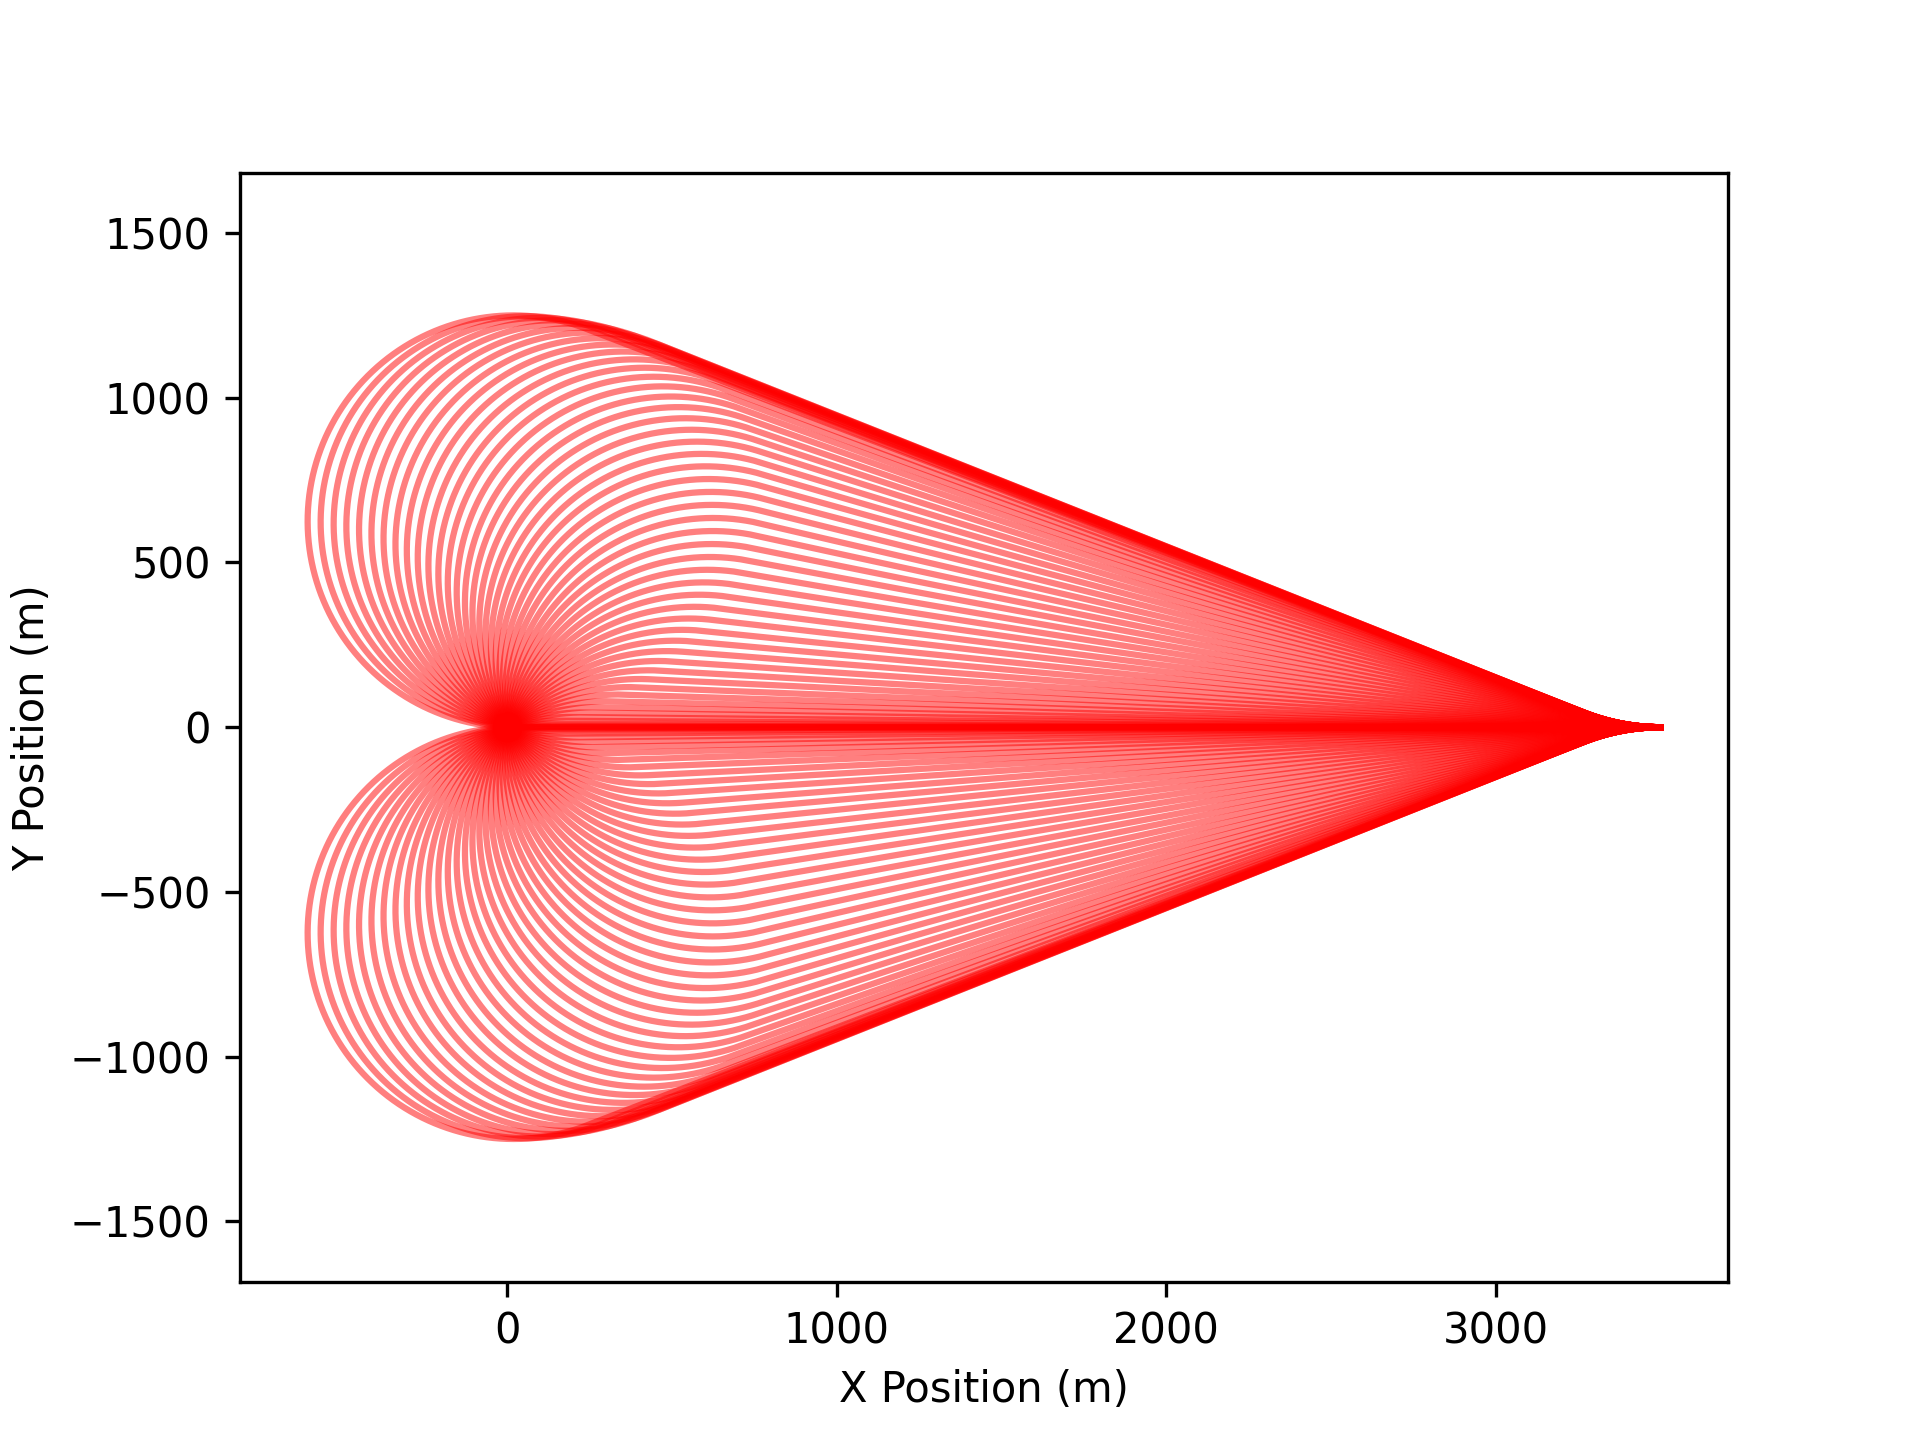
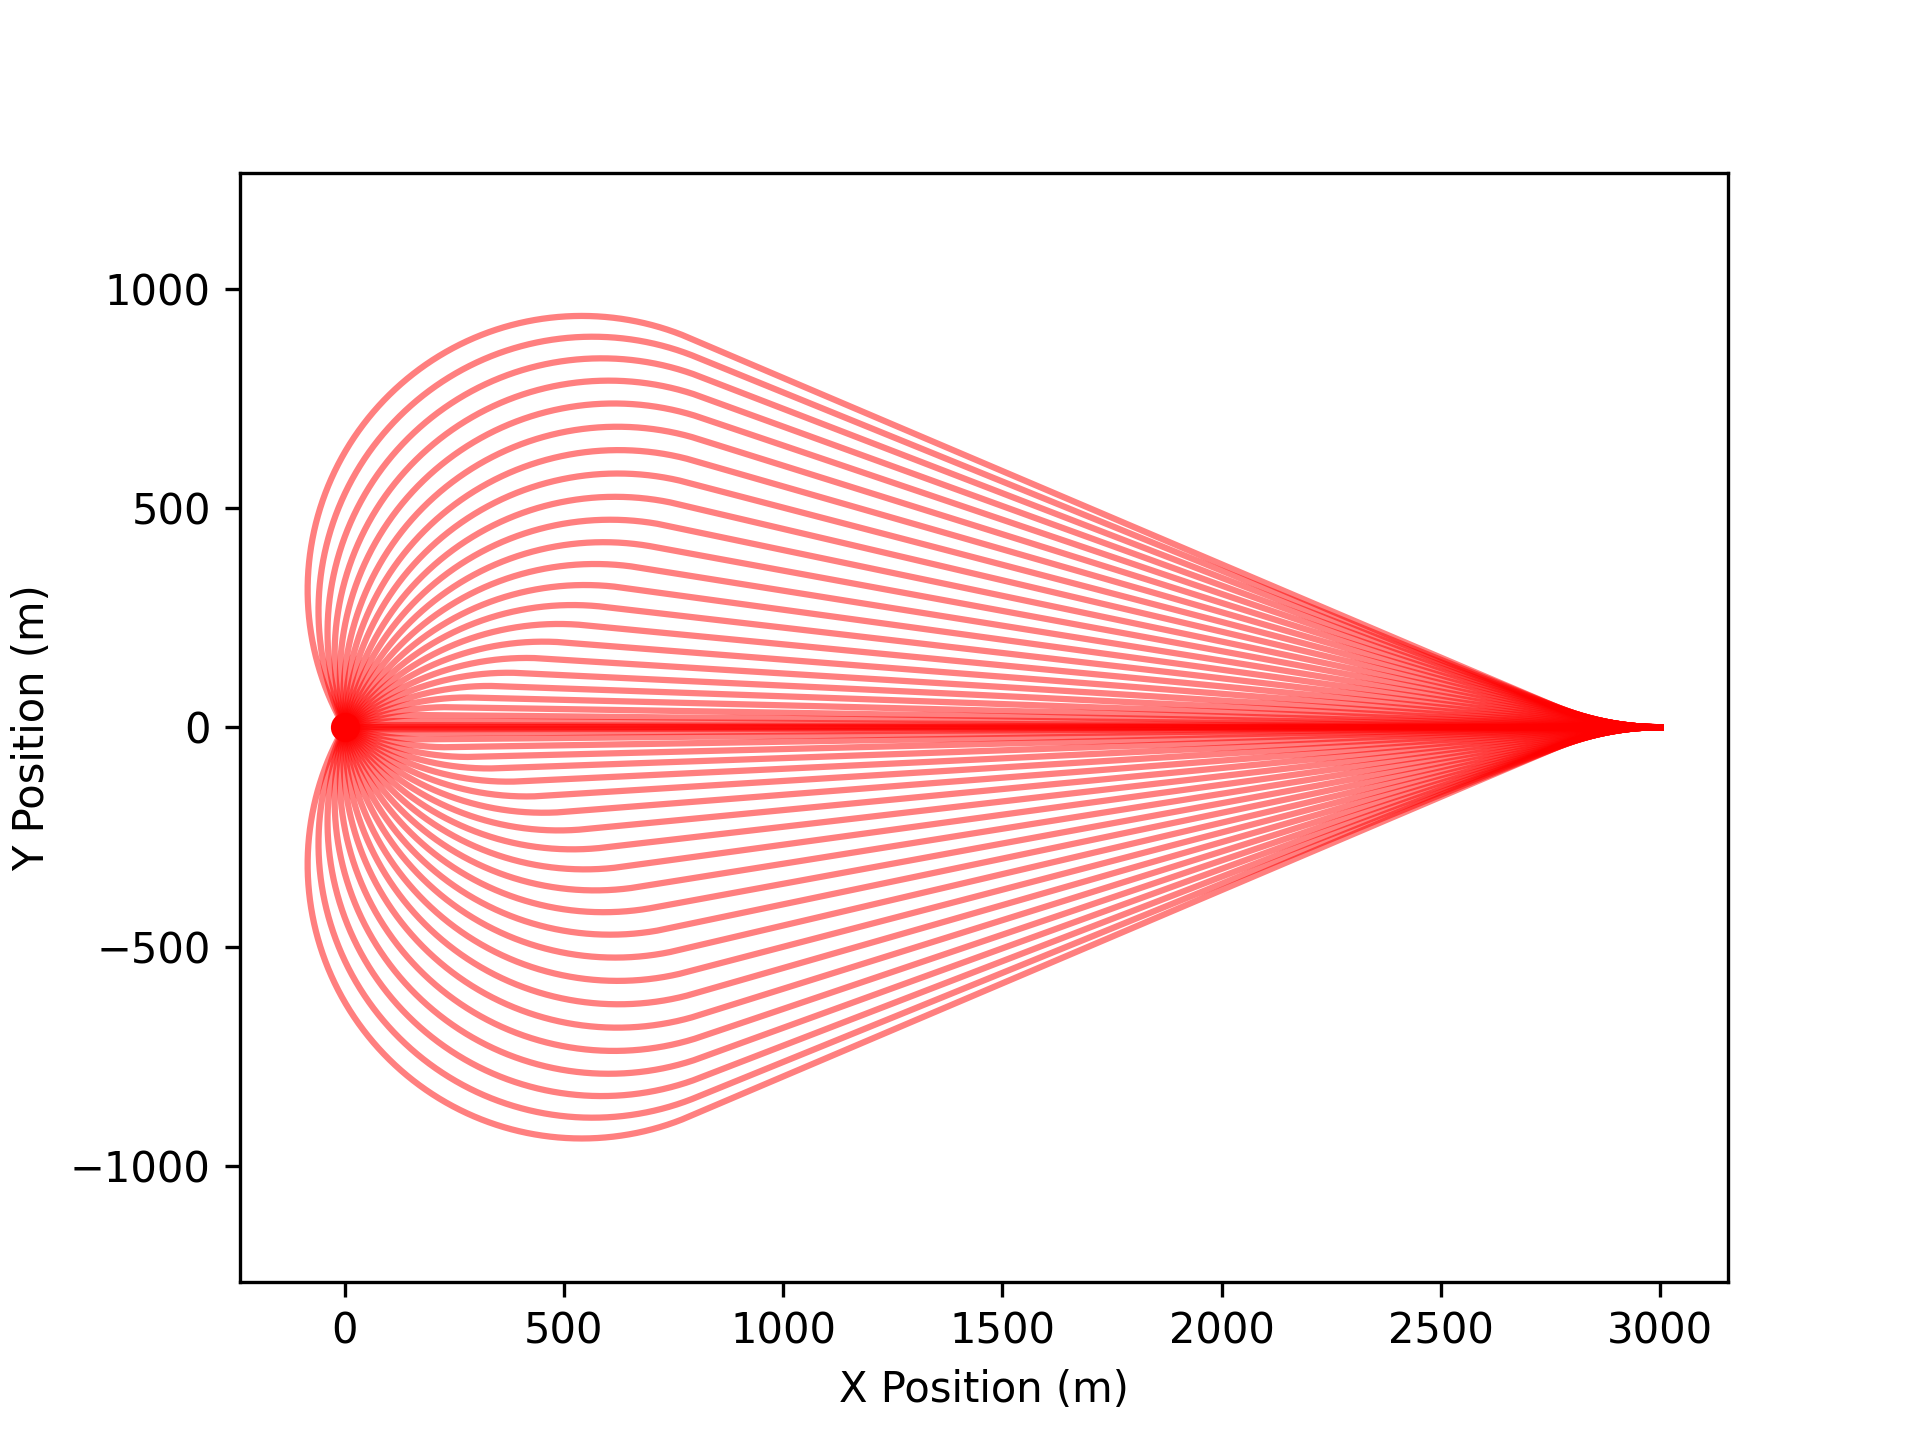
added dubins function

diff --git a/path_follower.py b/path_follower.py
@@ -45,22 +45,38 @@ def get_dubins_parameters(p_s: NDArray[np.float64], chi_s: float, p_e: NDArray[n
 
     # compute L1, L2, L3, L4 distances
     theta = np.arctan2(c_re[1] - c_rs[1], c_re[0] - c_rs[0])
-    L1 = np.linalg.norm(c_rs - c_re) + R*mod(2*np.pi + mod(theta - np.pi/2) - mod(chi_s - np.pi/2)) + R*mod(2*np.pi + mod(chi_e-np.pi/2) - mod(theta - np.pi/2))
+    first_arc_L1 = mod(2*np.pi + mod(theta - np.pi/2) - mod(chi_s - np.pi/2))
+    second_arc_L1 = mod(2*np.pi + mod(chi_e - np.pi/2) - mod(theta - np.pi/2))
+    straight_L1 = np.linalg.norm(c_rs - c_re)
+    L1 = straight_L1 + R*first_arc_L1 + R*second_arc_L1
+    L1_dict = {"first_arc": first_arc_L1, "straight": straight_L1, "second_arc": second_arc_L1}
 
     diff = c_le - c_rs
     ell = np.linalg.norm(diff)
     theta = np.arctan2(diff[1], diff[0])
     ell = np.linalg.norm(c_le - c_rs)
     theta2 = theta - np.pi/2 + np.arcsin(2*R/ell)
-    L2 = np.sqrt(ell**2 - 4*R**2) + R*mod(2*np.pi + mod(theta2) - mod(chi_s - np.pi/2)) + R*mod(2*np.pi + mod(theta2 + np.pi) - mod(chi_e + np.pi/2))
+    first_arc_L2 = mod(2*np.pi + mod(theta2) - mod(chi_s - np.pi/2))
+    second_arc_L2 = mod(2*np.pi + mod(theta2 + np.pi) - mod(chi_e + np.pi/2))
+    straight_L2 = np.sqrt(ell**2 - 4*R**2)
+    L2 = straight_L2 + R*first_arc_L2 + R*second_arc_L2
+    L2_dict = {"first_arc": first_arc_L2, "straight": straight_L2, "second_arc": second_arc_L2}
 
     theta = np.arctan2(c_re[1] - c_ls[1], c_re[0] - c_ls[0])
     ell = np.linalg.norm(c_re - c_ls)
     theta2 = np.arccos(2*R/ell)
-    L3 = np.sqrt(ell**2 - 4*R**2) + R*mod(2*np.pi + mod(chi_s + np.pi/2) - mod(theta + theta2)) + R*mod(2*np.pi + mod(chi_e - np.pi/2) - mod(theta + theta2 - np.pi))
+    first_arc_L3 = mod(2*np.pi + mod(chi_s + np.pi/2) - mod(theta + theta2))
+    second_arc_L3 = mod(2*np.pi + mod(chi_e - np.pi/2) - mod(theta + theta2 - np.pi))
+    straight_L3 = np.sqrt(ell**2 - 4*R**2)
+    L3 = straight_L3 + R*first_arc_L3 + R*second_arc_L3
+    L3_dict = {"first_arc": first_arc_L3, "straight": straight_L3, "second_arc": second_arc_L3}
 
     theta = np.arctan2(c_le[1] - c_ls[1], c_le[0] - c_ls[0])
-    L4 = np.linalg.norm(c_ls - c_le) + R*mod(2*np.pi + mod(chi_s + np.pi/2) - mod(theta + np.pi/2)) + R*mod(2*np.pi + mod(theta + np.pi/2) - mod(chi_e + np.pi/2))
+    first_arc_L4 = mod(2*np.pi + mod(chi_s + np.pi/2) - mod(theta + np.pi/2))
+    second_arc_L4 = mod(2*np.pi + mod(theta + np.pi/2) - mod(chi_e + np.pi/2))
+    straight_L4 = np.linalg.norm(c_ls - c_le)
+    L4 = straight_L4 + R*first_arc_L4 + R*second_arc_L4
+    L4_dict = {"first_arc": first_arc_L4, "straight": straight_L4, "second_arc": second_arc_L4}
 
     # Determine the minimum length path
     lengths = [L1, L2, L3, L4]
@@ -73,6 +89,9 @@ def get_dubins_parameters(p_s: NDArray[np.float64], chi_s: float, p_e: NDArray[n
         q1 = (c_e - c_s) / np.linalg.norm(c_e - c_s)
         z1 = c_s + R * rotation_matrix(-np.pi/2) @ q1
         z2 = c_e + R * rotation_matrix(-np.pi/2) @ q1
+        first_arc = L1_dict["first_arc"]
+        second_arc = L1_dict["second_arc"]
+        straight = L1_dict["straight"]
         
     elif min_index == 1:
         c_s = c_rs
@@ -85,6 +104,10 @@ def get_dubins_parameters(p_s: NDArray[np.float64], chi_s: float, p_e: NDArray[n
         q1 = rotation_matrix(theta2 + np.pi/2) @ np.array([1, 0])
         z1 = c_s + R * rotation_matrix(theta2) @ np.array([1, 0])
         z2 = c_e + R * rotation_matrix(theta2 + np.pi) @ np.array([1, 0])
+        first_arc = L2_dict["first_arc"]
+        second_arc = L2_dict["second_arc"]
+        straight = L2_dict["straight"]
+
     elif min_index == 2:
         c_s = c_ls
         c_e = c_re
@@ -96,6 +119,9 @@ def get_dubins_parameters(p_s: NDArray[np.float64], chi_s: float, p_e: NDArray[n
         q1 = rotation_matrix(theta + theta2 - np.pi/2) @ np.array([1, 0])
         z1 = c_s + R * rotation_matrix(theta + theta2) @ np.array([1, 0])
         z2 = c_e + R * rotation_matrix(theta + theta2 - np.pi) @ np.array([1, 0])
+        first_arc = L3_dict["first_arc"]
+        second_arc = L3_dict["second_arc"]
+        straight = L3_dict["straight"]
     else:
         c_s = c_ls
         c_e = c_le
@@ -104,11 +130,14 @@ def get_dubins_parameters(p_s: NDArray[np.float64], chi_s: float, p_e: NDArray[n
         q1 = (c_e - c_s) / np.linalg.norm(c_e - c_s)    
         z1 = c_s + R * rotation_matrix(np.pi/2) @ q1
         z2 = c_e + R * rotation_matrix(np.pi/2) @ q1
+        first_arc = L4_dict["first_arc"]
+        second_arc = L4_dict["second_arc"]
+        straight = L4_dict["straight"]
 
     z3 = p_e
     q3 = rotation_matrix(chi_e) @ np.array([1, 0])
 
-    return c_s, c_e, lambda_s, lambda_e, z1, z2, z3, q1, q3
+    return c_s, c_e, lambda_s, lambda_e, z1, z2, z3, q1, q3, first_arc, second_arc, straight
 
 
 def mod(x: float) -> float:

diff --git a/path_manager.py b/path_manager.py
@@ -1,7 +1,7 @@
 import numpy as np
 from numpy.typing import NDArray
 import params as P
-from path_follower import get_dubins_parameters
+from path_follower import get_dubins_parameters, rotation_matrix
 from dynamics import SimpleDynamics
 
 
@@ -195,3 +195,34 @@ def in_half_plane(
 
 def wrap_angle(angle: float) -> float:
     return (angle + np.pi) % (2 * np.pi) - np.pi
+
+
+def dubins_state_at_time(x0, xtf, t, v):
+    R = v**2/P.max_acceleration
+    c_s, c_e, lambda_s, lambda_e, z1, z2, z3, q1, q3, first_arc, second_arc, straight = get_dubins_parameters(x0[:2], x0[2], xtf[:2], xtf[2], R)
+    start_time = R * first_arc / v
+    straight_time = straight / v
+    end_time = R * second_arc / v
+    total_time = start_time + straight_time + end_time
+
+    t = np.clip(t, 0, total_time)
+
+    if t <= start_time:
+        heading_change = lambda_s * v * t / R
+        position = c_s + rotation_matrix(heading_change) @ (x0[:2] - c_s)
+        heading = x0[2] + heading_change
+
+    elif t <= start_time + straight_time:
+        segment_time = t - start_time
+        position = z1 + v * segment_time * q1
+        heading = np.arctan2(q1[1], q1[0])
+    else:
+        segment_time = t - start_time - straight_time
+        heading_change = lambda_e * v * segment_time / R
+        position = c_e + rotation_matrix(heading_change) @ (z2 - c_e)
+        tangent_heading = np.arctan2(q1[1], q1[0])
+        heading = tangent_heading + heading_change
+
+    heading = wrap_angle(heading)
+
+    return position, heading

diff --git a/testing_max_radius.py b/testing_max_radius.py
@@ -34,7 +34,7 @@ def compute_trajectory(x0: NDArray[np.float64], target: NDArray[np.float64], tf:
     return np.array(states)
 
 
-x0 = np.array([3500, 0, np.pi])
+x0 = np.array([3000, 0, np.pi])
 v0 = 50
 target = np.array([0, 0, -3*np.pi/4])  # Target position at the origin
 
@@ -44,7 +44,7 @@ t = 0
 
 # execute a maximum acceleration maneuver
 states = []
-final_headings = np.linspace(-np.pi, np.pi, 100)  # Test different final headings]
+final_headings = np.linspace(-2*np.pi/3, 2*np.pi/3, 50) + np.pi  # Test different final headings]
 for headings in final_headings:
     target[2] = headings
     states.append((compute_trajectory(x0, target, tf, v0), headings))

diff --git a/test_dubins.py b/test_dubins.py
@@ -1,0 +1,20 @@
+import numpy as np
+from path_manager import dubins_state_at_time
+import matplotlib.pyplot as plt
+
+
+
+x0 = np.array([3000, 0, np.pi])
+v0 = 50
+target = np.array([0, 0, -3*np.pi/4])  # Target position at the origin
+
+t = np.linspace(0, 100, 200)
+path = [dubins_state_at_time(x0, target, ti, v0)[0] for ti in t]
+path = np.array(path)
+
+plt.plot(path[:, 0], path[:, 1])
+plt.axis('equal')
+plt.xlabel("X")
+plt.ylabel("Y")
+plt.title("Dubins Path")
+plt.show()
